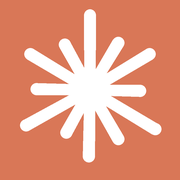
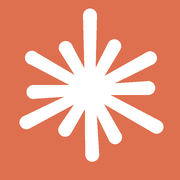
Add files via upload

diff --git a/app.js b/app.js
@@ -2,18 +2,18 @@
 const $=s=>document.querySelector(s),$$=s=>[...document.querySelectorAll(s)];
 const app=$('#app'),thread=$('#thread'),input=$('#input'),dock=$('#dock');
 const KEY='claude-clone-v1';
-let S={name:'bạn',apiKey:'',chats:[],cur:null};
+let S={name:'bạn',apiKey:'',chats:[],cur:null,model:'sonnet',think:1};
 try{Object.assign(S,JSON.parse(localStorage.getItem(KEY)||'{}'))}catch(e){}
 const save=()=>{try{localStorage.setItem(KEY,JSON.stringify(S))}catch(e){}};
 let tab='chat',busy=false,incognito=false;
 
 /* star logo */
-const RAYS=[[0,46],[31,34],[59,43],[91,31],[121,47],[150,35],[181,41],[209,30],[241,45],[271,33],[301,43],[331,32]];
-const starSVG=()=>{let p='';RAYS.forEach(([d,L])=>{const a=d*Math.PI/180,s=Math.sin(a),c=Math.cos(a),px=c,py=s,r0=3,w0=3.4,w1=3.7;
-const f=n=>n.toFixed(1),X=(r,w)=>[50+r*s+w*px,50-r*c+w*py],Y=(r,w)=>[50+r*s-w*px,50-r*c-w*py];
+const RAYS=[[0,46],[29,31],[62,42],[88,36],[119,47],[152,33],[178,40],[212,29],[243,44],[268,35],[299,41],[330,30]];
+const starSVG=(th=0)=>{const r0=th?3:8,w0=th?3.2:1.7,w1=th?4.2:3.4;let p='';RAYS.forEach(([d,L])=>{const a=d*Math.PI/180,s=Math.sin(a),c=Math.cos(a);
+const f=n=>n.toFixed(1),X=(r,w)=>[50+r*s+w*c,50-r*c+w*s],Y=(r,w)=>[50+r*s-w*c,50-r*c-w*s];
 const q=[X(r0,w0),X(L,w1),Y(L,w1),Y(r0,w0)].map(v=>f(v[0])+','+f(v[1])).join(' ');
 p+=`<polygon points="${q}"/><circle cx="${f(50+L*s)}" cy="${f(50-L*c)}" r="${w1}"/>`});
-return `<svg viewBox="0 0 100 100" fill="currentColor">${p}<circle cx="50" cy="50" r="8.5"/></svg>`};
+return `<svg viewBox="0 0 100 100" fill="currentColor">${p}</svg>`};
 const fillStars=()=>$$('[data-star]').forEach(e=>e.innerHTML=starSVG());
 fillStars();
 
@@ -96,17 +96,25 @@ const scrollEnd=()=>thread.scrollTo({top:thread.scrollHeight,behavior:'smooth'})
 
 /* replies */
 const demo=t=>{
+  if(/model|phiên bản|bạn là ai|ban la ai/i.test(t))return `Mình là Claude ${M().n}, do Anthropic tạo ra. Mức suy nghĩ hiện tại: ${TH[S.think].n}.`;
   if(/^(hi|hello|chào|xin chào|alo)/i.test(t.trim()))return `Chào bạn! Mình là Claude, một trợ lý AI. Mình có thể giúp bạn khá nhiều việc, ví dụ:\n- **Trả lời câu hỏi và giải thích:** kiến thức, khái niệm, học tập\n- **Viết và chỉnh sửa:** email, bài luận, CV, dịch thuật\n- **Lập trình:** viết code, sửa lỗi, giải thích thuật toán\n- **Phân tích:** số liệu, tài liệu, file bạn tải lên\n- **Lên kế hoạch và brainstorm ý tưởng**\n\nBạn đang cần giúp việc gì không?`;
   return `Đây là bản giao diện nên mình chưa kết nối với Claude thật. Vào **Cài đặt** (bấm tên của bạn ở menu bên trái) và nhập Anthropic API key để mình trả lời thật nhé.`;
 };
 async function reply(){
   const c=cur();
   if(!S.apiKey)return demo(c.msgs[c.msgs.length-1].t);
-  const r=await fetch('https://api.anthropic.com/v1/messages',{method:'POST',headers:{'content-type':'application/json','x-api-key':S.apiKey,'anthropic-version':'2023-06-01','anthropic-dangerous-direct-browser-access':'true'},
-    body:JSON.stringify({model:'claude-sonnet-4-6',max_tokens:2000,system:'Trả lời bằng ngôn ngữ người dùng đang dùng, ngắn gọn và rõ ràng.',messages:c.msgs.map(m=>({role:m.r==='u'?'user':'assistant',content:m.t}))})});
-  const j=await r.json();
-  if(!r.ok)throw new Error(j.error&&j.error.message||'Lỗi '+r.status);
-  return j.content.map(x=>x.text||'').join('');
+  const lbl=M().n,bud=BUDGET[S.think];
+  const sys=`Bạn là Claude, trợ lý AI của Anthropic, đang chạy ở phiên bản ${lbl}. Nếu người dùng hỏi bạn là model nào, hãy trả lời bạn là Claude ${lbl}. Trả lời bằng ngôn ngữ người dùng đang dùng, rõ ràng.`;
+  const msgs=c.msgs.map(m=>({role:m.r==='u'?'user':'assistant',content:m.t}));
+  const call=async th=>{
+    const body={model:REAL_MODEL,max_tokens:th?th+3000:2500,system:sys,messages:msgs};
+    if(th)body.thinking={type:'enabled',budget_tokens:th};
+    const r=await fetch('https://api.anthropic.com/v1/messages',{method:'POST',headers:{'content-type':'application/json','x-api-key':S.apiKey,'anthropic-version':'2023-06-01','anthropic-dangerous-direct-browser-access':'true'},body:JSON.stringify(body)});
+    const j=await r.json();
+    if(!r.ok)throw new Error(j.error&&j.error.message||'Lỗi '+r.status);
+    return j.content.filter(x=>x.type==='text').map(x=>x.text).join('');
+  };
+  try{return await call(bud)}catch(e){if(bud&&/think/i.test(e.message))return await call(0);throw e}
 }
 async function stream(el,text){
   let i=0;const step=Math.max(2,Math.ceil(text.length/260));
@@ -124,7 +132,7 @@ async function send(){
   if(!c){c={id:'c'+Date.now(),title:text.slice(0,40),t:Date.now(),msgs:[]};S.chats.unshift(c);S.cur=c.id}
   c.msgs.push({r:'u',t:text});c.t=Date.now();
   updateHead();addMsg('u',text);scrollEnd();
-  const th=document.createElement('span');th.className='star think';th.innerHTML=starSVG();thread.appendChild(th);scrollEnd();
+  const th=document.createElement('div');th.className='thinkrow'+(S.think>=2?' hue':'');th.innerHTML='<span class="star tk">'+starSVG()+'</span>'+(S.think>0?'<span class="rbtext">Đang suy nghĩ</span>':'');thread.appendChild(th);scrollEnd();
   let ans;
   try{await new Promise(r=>setTimeout(r,S.apiKey?0:700));ans=await reply()}catch(e){ans='Không gọi được Claude: '+e.message}
   th.remove();
@@ -170,8 +178,33 @@ $('#sheet-wrap').onclick=e=>{if(e.target.id==='sheet-wrap')app.classList.remove(
 $('#saveSet').onclick=()=>{S.name=$('#setName').value.trim()||'bạn';S.apiKey=$('#setKey').value.trim();save();greet();app.classList.remove('sheet-open');toast('Đã lưu')};
 $('#clearAll').onclick=()=>{if(confirm('Xóa toàn bộ đoạn chat?')){S.chats=[];S.cur=null;save();newChat();app.classList.remove('sheet-open')}};
 
+/* model + thinking */
+const REAL_MODEL='claude-haiku-5-5'; // model thật được gọi, rẻ nhất. Đổi ở đây nếu cần.
+const MODELS=[{id:'fable',n:'Fable 5.2',d:'Mạnh nhất, cho việc khó và dài'},{id:'opus',n:'Opus 5.5',d:'Suy luận sâu, code phức tạp'},{id:'sonnet',n:'Sonnet 5.5',d:'Cân bằng giữa nhanh và thông minh'},{id:'haiku',n:'Haiku 5.5',d:'Nhanh nhất cho việc hằng ngày'}];
+const TH=[{n:'Thấp'},{n:'Vừa'},{n:'Cao'},{n:'Max'}],BUDGET=[0,2000,5000,10000];
+const M=()=>MODELS.find(m=>m.id===S.model)||MODELS[2];
+const composer=$('.composer');let flashT;
+function updatePill(){
+  $('#mpName').textContent=M().n;const t=$('#mpThink');t.textContent=TH[S.think].n;
+  $('#modelPill').classList.toggle('max',S.think===3);
+  composer.classList.toggle('rb',S.think===3);
+}
+function flash(){composer.classList.add('rb','burst');clearTimeout(flashT);flashT=setTimeout(()=>{composer.classList.remove('burst');composer.classList.toggle('rb',S.think===3)},1500)}
+function renderModelSheet(){
+  $('#mlist').innerHTML=MODELS.map(m=>`<button class="mrow${m.id===S.model?' on':''}" data-m="${m.id}"><span><b>${m.n}</b><small>${m.d}</small></span><i class="chk"></i></button>`).join('');
+  $('#seg').innerHTML=TH.map((t,i)=>`<button class="${i===S.think?'on':''}${i===3?' mx':''}" data-t="${i}">${t.n}</button>`).join('');
+}
+$('#modelPill').onclick=()=>{renderModelSheet();app.classList.add('msheet-open')};
+$('#msheet-wrap').onclick=e=>{
+  if(e.target.id==='msheet-wrap')return app.classList.remove('msheet-open');
+  const m=e.target.closest('[data-m]'),t=e.target.closest('[data-t]');
+  if(m){S.model=m.dataset.m;save();updatePill();renderModelSheet();flash();if(navigator.vibrate)navigator.vibrate(8);setTimeout(()=>app.classList.remove('msheet-open'),550)}
+  if(t){S.think=+t.dataset.t;save();updatePill();renderModelSheet();flash()}
+};
+$('#settingsBtn').addEventListener('click',()=>{$('#realModel').textContent='Model thật được gọi: '+REAL_MODEL+'. Tên model ở nút chọn chỉ là nhãn hiển thị.'});
+
 /* boot */
-greet();updateHead();
+greet();updateHead();updatePill();
 setTimeout(()=>$('#splash').classList.add('out'),1500);
 if('serviceWorker'in navigator&&location.protocol.startsWith('http'))navigator.serviceWorker.register('sw.js').catch(()=>{});
 })();

diff --git a/style.css b/style.css
@@ -44,7 +44,7 @@ button{font:inherit;color:inherit;background:none;border:0;cursor:pointer;paddin
 .msg-a code{font-family:ui-monospace,Menlo,monospace;font-size:14px;background:var(--soft);padding:2px 6px;border-radius:6px}
 .msg-a pre{background:var(--soft);border-radius:14px;padding:14px;overflow-x:auto;margin:0 0 14px}.msg-a pre code{background:none;padding:0;font-size:13.5px;line-height:1.5}
 .foot{display:flex;gap:4px;margin-top:2px;color:var(--mute)}.foot button{width:34px;height:34px;display:grid;place-items:center;border-radius:50%}.foot button:active{background:var(--soft)}
-.think{display:block;width:26px;height:26px;margin:2px 0 26px;animation:spin2 1.4s linear infinite}
+.thinkrow{display:flex;align-items:center;gap:10px;margin:2px 0 26px;font-size:15px}.tk{width:26px;height:26px;animation:spin2 1.4s linear infinite}
 @keyframes spin2{to{transform:rotate(360deg)}}
 @keyframes up{from{opacity:0;transform:translateY(12px) scale(.98)}to{opacity:1;transform:none}}
 .cursor::after{content:"";display:inline-block;width:9px;height:9px;border-radius:50%;background:var(--fg);margin-left:4px;vertical-align:middle;animation:blink 1s ease infinite}
@@ -89,7 +89,8 @@ button{font:inherit;color:inherit;background:none;border:0;cursor:pointer;paddin
 
 /* drawer */
 #scrim{position:fixed;inset:0;background:rgba(0,0,0,.38);opacity:0;visibility:hidden;transition:opacity .3s,visibility .3s;z-index:20}
-#drawer{position:fixed;top:0;bottom:0;left:0;width:min(84vw,340px);background:var(--bg);z-index:21;transform:translateX(-102%);transition:transform .38s var(--ease);padding:calc(var(--sat) + 16px) 14px calc(var(--sab) + 12px);display:flex;flex-direction:column;box-shadow:12px 0 40px -12px rgba(0,0,0,.3)}
+#drawer{position:fixed;top:0;bottom:0;left:0;width:min(84vw,340px);background:var(--bg);z-index:21;transform:translateX(-102%);transition:transform .38s var(--ease);padding:calc(var(--sat) + 16px) 14px calc(var(--sab) + 12px);display:flex;flex-direction:column}
+#drawer{box-shadow:none;transition:transform .38s var(--ease),box-shadow .38s}.open #drawer{box-shadow:12px 0 40px -12px rgba(0,0,0,.3)}
 .open #drawer{transform:none}.open #scrim{opacity:1;visibility:visible}
 .d-head{display:flex;align-items:center;gap:8px;padding:4px 8px 14px}.d-head .star{width:26px;height:26px}
 .d-new{display:flex;align-items:center;gap:12px;padding:13px 12px;border-radius:14px;font-weight:500;font-size:17px}.d-new:active,.d-item:active,.d-user:active{background:var(--soft)}
@@ -113,3 +114,25 @@ button{font:inherit;color:inherit;background:none;border:0;cursor:pointer;paddin
 #toast{position:fixed;left:50%;bottom:calc(var(--sab) + 110px);transform:translate(-50%,20px);background:var(--ink);color:var(--ink-fg);padding:12px 20px;border-radius:999px;font-size:15px;opacity:0;pointer-events:none;transition:.3s var(--ease);z-index:50;white-space:nowrap}
 #toast.show{opacity:1;transform:translate(-50%,0)}
 @media(prefers-reduced-motion:reduce){*{animation-duration:.01ms!important;transition-duration:.01ms!important}}
+
+/* model pill + rainbow */
+:root{--rb:linear-gradient(90deg,#ff5f6d,#ffc371,#47d16c,#3ec6ff,#8b5cf6,#ff5f6d)}
+.modelpill{display:inline-flex;align-items:center;gap:7px;background:var(--soft);border-radius:999px;padding:8px 8px 8px 14px;margin:0 0 8px 4px;font-size:14px;font-weight:500;transition:transform .15s}
+.modelpill:active{transform:scale(.96)}.modelpill i{font-style:normal;color:var(--mute);font-weight:400}.modelpill i::before{content:"·";margin-right:7px}
+.modelpill.max i,.rbtext{background:var(--rb);background-size:300% 100%;-webkit-background-clip:text;background-clip:text;-webkit-text-fill-color:transparent;color:transparent;animation:slide 3s linear infinite;font-weight:600}
+.composer.rb{border:1.5px solid transparent;background:linear-gradient(var(--card),var(--card)) padding-box,var(--rb) border-box;background-size:auto,300% 100%;animation:slide2 4s linear infinite;box-shadow:0 0 18px -4px rgba(139,92,246,.45)}
+.composer.burst{animation:slide2 1.2s linear infinite;box-shadow:0 0 30px -2px rgba(62,198,255,.6)}
+@keyframes slide{to{background-position:300% 0}}@keyframes slide2{to{background-position:0 0,300% 0}}
+.hue .tk{animation:spin2 1.4s linear infinite,hue 3s linear infinite}@keyframes hue{to{filter:hue-rotate(360deg)}}
+#msheet-wrap{position:fixed;inset:0;z-index:30;display:flex;align-items:flex-end;background:rgba(0,0,0,0);visibility:hidden;transition:background .3s,visibility .3s}
+.msheet-open #msheet-wrap{background:rgba(0,0,0,.4);visibility:visible}
+#msheet{width:100%;background:var(--bg);border-radius:28px 28px 0 0;padding:10px 18px calc(var(--sab) + 20px);transform:translateY(100%);transition:transform .4s var(--ease);display:flex;flex-direction:column;gap:8px}
+.msheet-open #msheet{transform:none}#msheet h3{font-size:20px;font-weight:600;margin:6px 4px 4px}#msheet h3.sub{margin-top:14px;font-size:16px;color:var(--mute);font-weight:500}
+.mrow{width:100%;display:flex;align-items:center;justify-content:space-between;text-align:left;padding:14px 16px;border-radius:18px;border:1.5px solid transparent;transition:background .2s}
+.mrow:active{background:var(--soft)}.mrow b{display:block;font-size:17px;font-weight:600}.mrow small{display:block;color:var(--mute);font-size:14px;margin-top:2px}
+.mrow.on{background:var(--soft)}.chk{width:24px;height:24px;border-radius:50%;border:2px solid var(--line);flex:none;transition:.25s}
+.mrow.on .chk{border:0;background:var(--rb);background-size:300% 100%;animation:slide 3s linear infinite;box-shadow:inset 0 0 0 7px var(--soft)}
+.seg{display:flex;background:var(--soft);border-radius:999px;padding:4px}
+.seg button{flex:1;padding:11px 0;border-radius:999px;font-size:15px;font-weight:500;color:var(--mute);transition:.25s var(--ease)}
+.seg button.on{background:var(--ink);color:var(--ink-fg)}
+.seg button.on.mx{background:var(--rb);background-size:300% 100%;animation:slide 3s linear infinite;color:#fff;text-shadow:0 1px 2px rgba(0,0,0,.35)}

diff --git a/index.html b/index.html
@@ -70,6 +70,7 @@
 
   <div id="dock" class="dock">
     <button class="recent" id="recent" hidden></button>
+    <button class="modelpill" id="modelPill" aria-label="Chọn model"><span id="mpName"></span><i id="mpThink"></i><svg width="14" height="14" viewBox="0 0 24 24" fill="none" stroke="currentColor" stroke-width="2.4" stroke-linecap="round" stroke-linejoin="round"><path d="m6 9 6 6 6-6"/></svg></button>
     <div class="composer">
       <button class="round soft" id="plusBtn" aria-label="Thêm"><svg width="22" height="22" viewBox="0 0 24 24" fill="none" stroke="currentColor" stroke-width="2" stroke-linecap="round"><path d="M12 5v14M5 12h14"/></svg></button>
       <textarea id="input" rows="1" placeholder="Nhập hoặc giữ để nói" enterkeyhint="send"></textarea>
@@ -103,8 +104,17 @@
     <label>Tên của bạn<input id="setName" type="text" placeholder="Tên hiển thị" autocomplete="off"></label>
     <label>Anthropic API key (tùy chọn)<input id="setKey" type="password" placeholder="sk-ant-..." autocomplete="off" autocapitalize="off"></label>
     <p class="hint">Có API key thì Claude trả lời thật. Key chỉ lưu trong thiết bị này.</p>
+    <p class="hint" id="realModel"></p>
     <button class="pill wide" id="saveSet">Lưu</button>
     <button class="link" id="clearAll">Xóa toàn bộ chat</button>
+  </div></div>
+
+  <div id="msheet-wrap"><div id="msheet">
+    <div class="grab"></div>
+    <h3>Model</h3>
+    <div id="mlist"></div>
+    <h3 class="sub">Mức độ suy nghĩ</h3>
+    <div class="seg" id="seg"></div>
   </div></div>
 
   <div id="toast"></div>

diff --git a/sw.js b/sw.js
@@ -1,4 +1,4 @@
-const V='claude-v3',F=['./','index.html','style.css','app.js','manifest.webmanifest','icon-192.png','apple-touch-icon.png'];
+const V='claude-v4',F=['./','index.html','style.css','app.js','manifest.webmanifest','icon-192.png','apple-touch-icon.png'];
 self.addEventListener('install',e=>{e.waitUntil(caches.open(V).then(c=>c.addAll(F)));self.skipWaiting()});
 self.addEventListener('activate',e=>{e.waitUntil(caches.keys().then(k=>Promise.all(k.filter(x=>x!==V).map(x=>caches.delete(x)))));self.clients.claim()});
 self.addEventListener('fetch',e=>{if(e.request.method!=='GET'||new URL(e.request.url).origin!==location.origin)return;
